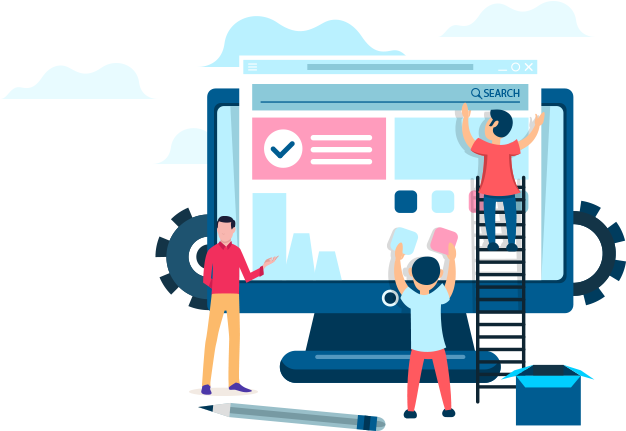
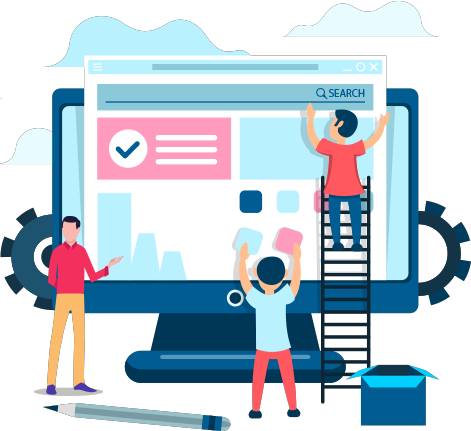
Push to main - media responsive
done

diff --git a/index.html b/index.html
@@ -49,7 +49,7 @@
                     </p>
                     <h1 class="hero-heading">Manish Singh</h1>
                     <p class="hero-para">
-                        I am a consulatant and web developer. One stop soltion to every thing here.
+                        I am a consulatant and web developer. One stop solution to every thing here.
                         Lorem ipsum dolor sit amet, consectetur adipisicing elit. Dolores obcaecati, nisi impedit
                         incidunt dignissimos vitae nam nesciunt eveniet, sed sequi placeat quos temporibus. Eaque rerum
                         reiciendis at voluptate pariatur eligendi?
@@ -265,6 +265,12 @@
             </div>
         </div>
     </section>
+
+    <!-- =============================
+    Our Resume - Lazy Load pic  (Copy of Biodata)Section Starts
+    ==================================-->
+    <!-- Code moved in rough page section for now -->
+
     <!-- =============================
     Our testimonial Section Starts
     ==================================-->
@@ -293,86 +299,6 @@
                     </div>
                 </div>
                 <div class="swiper-slide">
-                    <div class="swiper-client-msg">
-                        <p>
-                            Lorem ipsum dolor sit amet consectetur adipisicing elit. A aliquid sint ea quisquam .
-                        </p>
-                    </div>
-                    <div class="swiper-client-data grid grid-two-coloum">
-                        <figure>
-                            <img src="images/Client/1.jpg" alt="Client review">
-                        </figure>
-                        <div class="client-data-details">
-                            <p>Vinod Thapa</p>
-                            <p>Entrepreneur</p>
-                        </div>
-                    </div>
-                </div>
-                 <div class="swiper-slide">
-                    <div class="swiper-client-msg">
-                        <p>
-                            Lorem ipsum dolor sit amet consectetur adipisicing elit. A aliquid sint ea quisquam .
-                        </p>
-                    </div>
-                    <div class="swiper-client-data grid grid-two-coloum">
-                        <figure>
-                            <img src="images/Client/1.jpg" alt="Client review">
-                        </figure>
-                        <div class="client-data-details">
-                            <p>Vinod Thapa</p>
-                            <p>Entrepreneur</p>
-                        </div>
-                    </div>
-                </div>
-                 <div class="swiper-slide">
-                    <div class="swiper-client-msg">
-                        <p>
-                            Lorem ipsum dolor sit amet consectetur adipisicing elit. A aliquid sint ea quisquam .
-                        </p>
-                    </div>
-                    <div class="swiper-client-data grid grid-two-coloum">
-                        <figure>
-                            <img src="images/Client/1.jpg" alt="Client review">
-                        </figure>
-                        <div class="client-data-details">
-                            <p>Vinod Thapa</p>
-                            <p>Entrepreneur</p>
-                        </div>
-                    </div>
-                </div>
-                 <div class="swiper-slide">
-                    <div class="swiper-client-msg">
-                        <p>
-                            Lorem ipsum dolor sit amet consectetur adipisicing elit. A aliquid sint ea quisquam .
-                        </p>
-                    </div>
-                    <div class="swiper-client-data grid grid-two-coloum">
-                        <figure>
-                            <img src="images/Client/1.jpg" alt="Client review">
-                        </figure>
-                        <div class="client-data-details">
-                            <p>Vinod Thapa</p>
-                            <p>Entrepreneur</p>
-                        </div>
-                    </div>
-                </div>
-                 <div class="swiper-slide">
-                    <div class="swiper-client-msg">
-                        <p>
-                            Lorem ipsum dolor sit amet consectetur adipisicing elit. A aliquid sint ea quisquam .
-                        </p>
-                    </div>
-                    <div class="swiper-client-data grid grid-two-coloum">
-                        <figure>
-                            <img src="images/Client/1.jpg" alt="Client review">
-                        </figure>
-                        <div class="client-data-details">
-                            <p>Vinod Thapa</p>
-                            <p>Entrepreneur</p>
-                        </div>
-                    </div>
-                </div>
-                 <div class="swiper-slide">
                     <div class="swiper-client-msg">
                         <p>
                             Lorem ipsum dolor sit amet consectetur adipisicing elit. A aliquid sint ea quisquam .
@@ -479,27 +405,29 @@
             <h2 class="common-heading">Contact Us</h2>
         </div>
         <div class="section-contact-main contact-container">
-            <form action="#">
+            <!-- Used formspree.io to send email as API mail sender -->
+            <form action="https://formspree.io/f/mwkdravg" method="POST">
                 <div class="grid grid-two-coloum">
                     <div>
                         <label for="username"></label>
-                        <input type="text" name="username" placeholder="username" id="username">
+                        <input type="text" name="username" placeholder="username" id="username" required>
                     </div>
+                    <!-- autocomplete="off" - this gives previous form filled suggestion -->
                     <div>
                         <label for="email"></label>
-                        <input type="text" name="email" placeholder="E-mail" id="email">
+                        <input type="email" name="email" placeholder="abc@gmail.com" id="email" required>
                     </div>
                 </div>
                 <div>
                     <label for="subject"></label>
-                    <input type="text" name="subject" placeholder="subject" id="subject">
+                    <input type="text" name="subject" placeholder="subject" id="subject" required>
                 </div>
                 <div>
                     <label for="textarea"></label>
-                    <textarea type="textarea" id="textarea" cols="30" rows="10"> </textarea>
+                    <textarea type="message" name="message" id="textarea" cols="30" rows="10" required minlength="5"> </textarea>
                 </div>
                 <div>
-                    <input type="submit" name="Send" id="submit" class="btn" value="Send Message">
+                    <input type="submit" name="Send" id="submit" class="btn" value="Send Message" required>
                 </div>
             </form>
         </div>

diff --git a/contact.html b/contact.html
@@ -43,32 +43,34 @@
             width="100%" height="400" style="border:0;" allowfullscreen="Y" loading="lazy"
             referrerpolicy="no-referrer-when-downgrade">
         </iframe>
-
-        <div class="section-contact-main contact-container">
-            <form action="#">
-                <div class="grid grid-two-coloum">
-                    <div>
-                        <label for="username"></label>
-                        <input type="text" name="username" placeholder="username" id="username">
-                    </div>
-                    <div>
-                        <label for="email"></label>
-                        <input type="text" name="email" placeholder="E-mail" id="email">
-                    </div>
-                </div>
+<!-- Contact section -->
+    <div class="section-contact-main contact-container">
+        <!-- Used formspree.io to send email as API mail sender -->
+        <form action="https://formspree.io/f/mwkdravg" method="POST">
+            <div class="grid grid-two-coloum">
                 <div>
-                    <label for="subject"></label>
-                    <input type="text" name="subject" placeholder="subject" id="subject">
+                    <label for="username"></label>
+                    <input type="text" name="username" placeholder="username" id="username" required>
                 </div>
+                <!-- autocomplete="off" - this gives previous form filled suggestion -->
                 <div>
-                    <label for="textarea"></label>
-                    <textarea type="textarea" id="textarea" cols="30" rows="10"> </textarea>
+                    <label for="email"></label>
+                    <input type="email" name="email" placeholder="abc@gmail.com" id="email" required>
                 </div>
-                <div>
-                    <input type="submit" name="Send" id="submit" class="btn" value="Send Message">
-                </div>
-            </form>
-        </div>
+            </div>
+            <div>
+                <label for="subject"></label>
+                <input type="text" name="subject" placeholder="subject" id="subject" required>
+            </div>
+            <div>
+                <label for="textarea"></label>
+                <textarea type="message" name="message" id="textarea" cols="30" rows="10" required minlength="5"> </textarea>
+            </div>
+            <div>
+                <input type="submit" name="Send" id="submit" class="btn" value="Send Message" required>
+            </div>
+        </form>
+    </div>
 
     </section>
 

diff --git a/css/style.css b/css/style.css
@@ -33,6 +33,11 @@
 html {
     font-size: 62.5%;
     /* 1rem = 10px */
+    /* scroll-behavior: smooth; */
+    overflow-x: hidden;
+}
+body{
+overflow-x: hidden;
 }
 
 h1,
@@ -258,6 +263,7 @@ Hero Section CSS Starts
 }
 
 .section-hero-image {
+    min-width: 40rem;
     display: flex;
     justify-content: center;
     align-items: center;
@@ -869,8 +875,54 @@ Scrool top CSS Starts
 /* ================
 Media Queries Section
 =================== */
+/* rem can't be used in media section - root em - 1rem is font-sixe - 10px defined*/
+/* em is pixel/16 -- 1500 px ~ 95em*/
+@media(max-width: 95em) {
+    .container{
+        max-width: 130rem;
+        padding: 0 3.2rem;
+    }
+    .navbar-lists{
+        gap: 3.4rem;
+    }
+}
+/* for 1200px */
+@media(max-width: 75em) {
+    /* Hero section */
+.section-hero h1{
+    line-height: 1.06;
+}
+
+/* Service section */
+.section-services .grid{
+    gap: 6rem;
+}
+.section-services .grid-three-coloum{
+    grid-template-columns: repeat(2,1fr);
+        /* It can be made of 2 colum but 3 is fine for me now. */
+}
+
+/* Section Footer */
+.section-footer .grid-four-coloum{
+    grid-template-columns: repeat(2, 1fr);
+    row-gap: 0;
+}
+
+
+    .container{
+        max-width: 110rem;
+        padding: 0 3.2rem;
+    }
+    .grid{
+        gap: 4.8rem;
+    }
+}
 
 @media(max-width: 980px){
+    html{
+        font-size: 50%;
+    }
+    
     .header{
         position: relative;
     }
@@ -886,7 +938,7 @@ Media Queries Section
         color: var(--black);
     }
     .navbar{
-        width: 100%;
+        width: 78%;
         height: 100vh;
         position: absolute;
         top: 0;
@@ -910,6 +962,8 @@ Media Queries Section
     .navbar-lists{
         flex-direction: column;
         align-items: center;
+        position: fixed;
+        left: 5rem;
     }
     .navbar .navbar-lists .navbar-link:link,
     .navbar .navbar-lists .navbar-link:visited{

diff --git a/script.js b/script.js
@@ -48,9 +48,9 @@ p_btns.addEventListener("click", (e) => {
 var swiper = new Swiper(".mySwiper", {
   slidesPerView: 1,
   spaceBetween: 50,
-  // autoplay: {
-  //   delay: 2500,
-  // },
+  autoplay: {
+    delay: 2500,
+  },
   pagination: {
     el: ".swiper-pagination",
     clickable: true,
